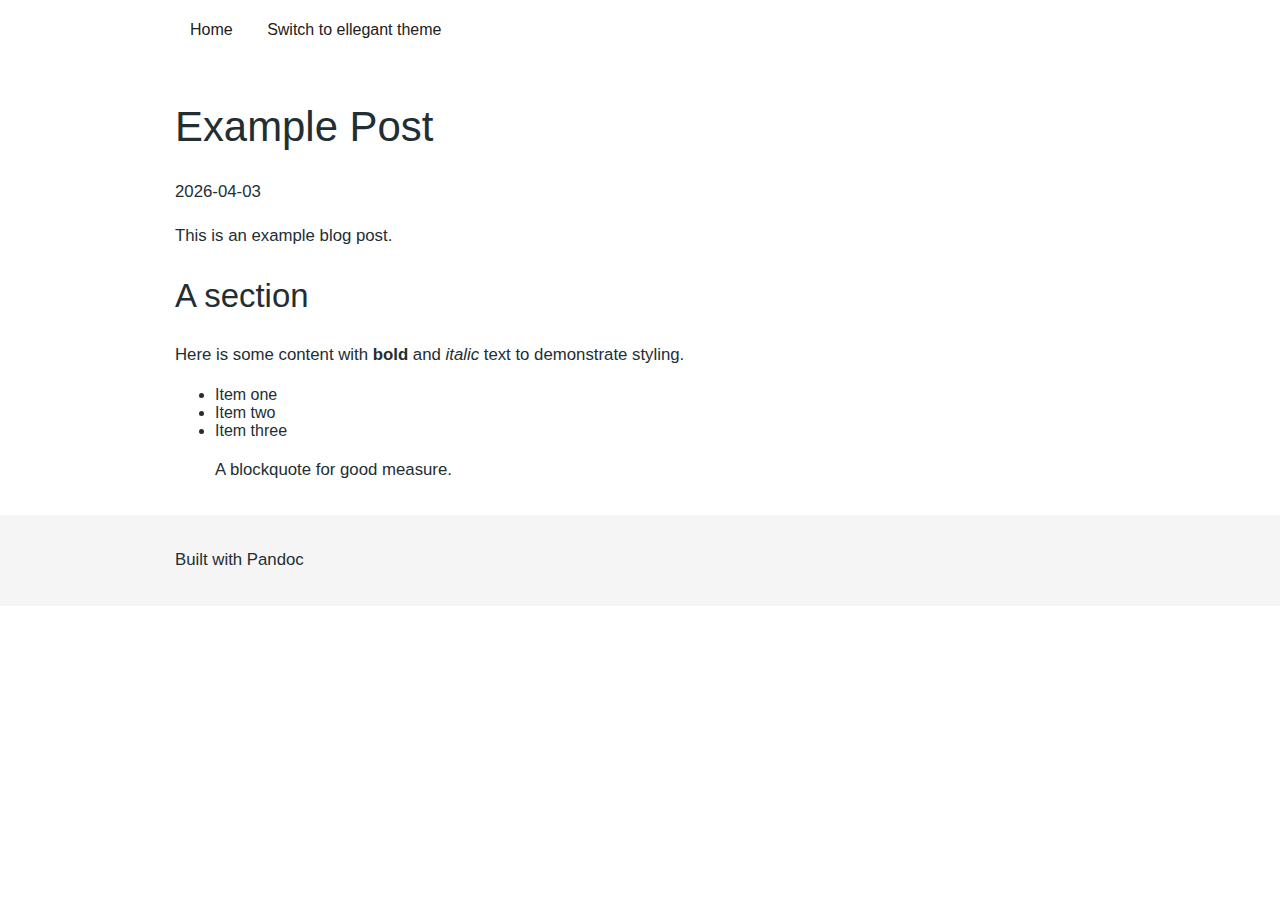
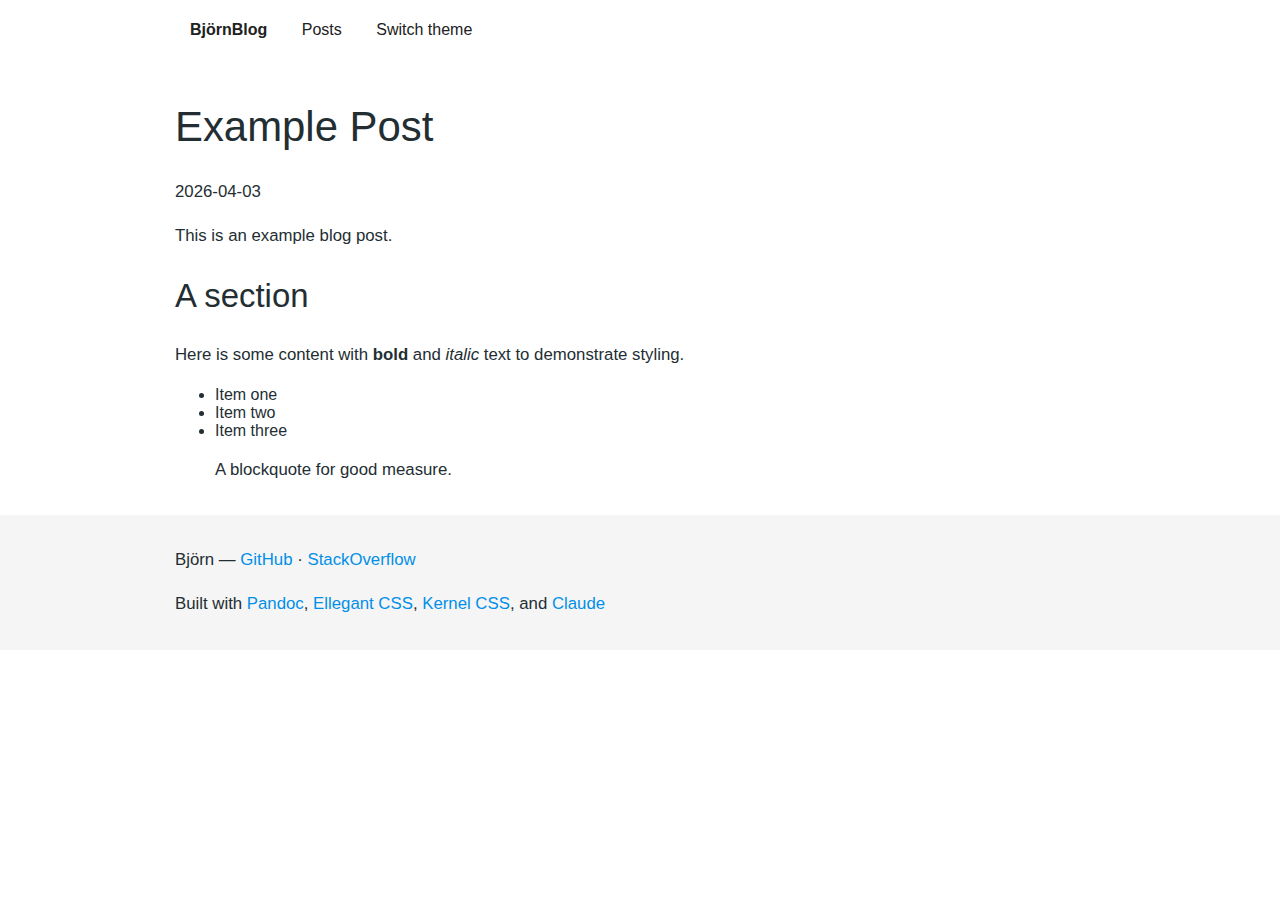
deploy: 3f79e11824e4568973eee068c2384f563539ca5d

Changed region(s): [[0.125, 0.5911, 0.4688, 0.6844], [0.1562, 0.0311, 0.375, 0.0622]]

diff --git a/index-kernel.html b/index-kernel.html
@@ -3,7 +3,7 @@
 <head>
   <meta charset="utf-8">
   <meta name="viewport" content="width=device-width, initial-scale=1.0">
-  <title>My Blog | Blog</title>
+  <title>BjörnBlog | BjörnBlog</title>
   
   <link rel="stylesheet" href="css/kernel.min.css">
 </head>
@@ -14,24 +14,27 @@
       <label for="ke-nav-toggle" class="ke-nav-toggle-hamburger"><span>&#9776;</span></label>
       <nav class="ke-nav">
         <ul>
-          <li><a href="index-kernel.html">Home</a></li>
-                    <li><a href="index.html">Switch to ellegant theme</a></li>
+          <li><a href="index-kernel.html"><strong>BjörnBlog</strong></a></li>
+          <li><a href="index-kernel.html">Posts</a></li>
+                    <li><a href="index.html">Switch theme</a></li>
                   </ul>
       </nav>
     </div>
   </header>
 
   <main class="ke-container ke-content">
-    <h1>My Blog</h1>
+    <h1>BjörnBlog</h1>
     
-<p>Welcome to my blog.</p>
+<p>I think about software and nerdstuff. Sometimes it’s worth writing
+about. Not sure if it’s worth reading though.</p>
 <h2>Posts</h2><ul><li><time>2026-04-03</time> &mdash; <a href="2026-04-03-example-post-kernel.html">Example Post</a></li></ul>
   </main>
 
   <footer>
     <div class="ke-bg-default ke-content">
       <div class="ke-container">
-        <p>Built with Pandoc</p>
+        <p>Björn &mdash; <a href="https://github.com/bjuergens">GitHub</a> · <a href="https://stackoverflow.com/users/5132456/wotanii">StackOverflow</a></p>
+        <p>Built with <a href="https://pandoc.org">Pandoc</a>, <a href="https://github.com/ellegantcss/ellegant">Ellegant CSS</a>, <a href="https://github.com/christian-dale/kernel.css">Kernel CSS</a>, and <a href="https://claude.ai">Claude</a></p>
       </div>
     </div>
   </footer>

diff --git a/2026-04-03-example-post-kernel.html b/2026-04-03-example-post-kernel.html
@@ -3,7 +3,7 @@
 <head>
   <meta charset="utf-8">
   <meta name="viewport" content="width=device-width, initial-scale=1.0">
-  <title>Example Post | Blog</title>
+  <title>Example Post | BjörnBlog</title>
   <meta name="date" content="2026-04-03">
   <link rel="stylesheet" href="css/kernel.min.css">
 </head>
@@ -14,8 +14,9 @@
       <label for="ke-nav-toggle" class="ke-nav-toggle-hamburger"><span>&#9776;</span></label>
       <nav class="ke-nav">
         <ul>
-          <li><a href="index-kernel.html">Home</a></li>
-                    <li><a href="2026-04-03-example-post.html">Switch to ellegant theme</a></li>
+          <li><a href="index-kernel.html"><strong>BjörnBlog</strong></a></li>
+          <li><a href="index-kernel.html">Posts</a></li>
+                    <li><a href="2026-04-03-example-post.html">Switch theme</a></li>
                   </ul>
       </nav>
     </div>
@@ -42,7 +43,8 @@ text to demonstrate styling.</p>
   <footer>
     <div class="ke-bg-default ke-content">
       <div class="ke-container">
-        <p>Built with Pandoc</p>
+        <p>Björn &mdash; <a href="https://github.com/bjuergens">GitHub</a> · <a href="https://stackoverflow.com/users/5132456/wotanii">StackOverflow</a></p>
+        <p>Built with <a href="https://pandoc.org">Pandoc</a>, <a href="https://github.com/ellegantcss/ellegant">Ellegant CSS</a>, <a href="https://github.com/christian-dale/kernel.css">Kernel CSS</a>, and <a href="https://claude.ai">Claude</a></p>
       </div>
     </div>
   </footer>

diff --git a/index.html b/index.html
@@ -3,7 +3,7 @@
 <head>
   <meta charset="utf-8">
   <meta name="viewport" content="width=device-width, initial-scale=1.0">
-  <title>My Blog | Blog</title>
+  <title>BjörnBlog | BjörnBlog</title>
   
   <link rel="stylesheet" href="css/ellegant.min.css">
   <style>
@@ -42,20 +42,23 @@
 <body>
   <header>
     <nav>
-      <a href="index.html">Home</a>
-            <a href="index-kernel.html">Switch to kernel theme</a>
+      <a href="index.html"><strong>BjörnBlog</strong></a>
+      <a href="index.html">Posts</a>
+            <a href="index-kernel.html">Switch theme</a>
           </nav>
   </header>
 
   <main>
-    <h1>My Blog</h1>
+    <h1>BjörnBlog</h1>
     
-<p>Welcome to my blog.</p>
+<p>I think about software and nerdstuff. Sometimes it’s worth writing
+about. Not sure if it’s worth reading though.</p>
 <h2>Posts</h2><ul><li><time>2026-04-03</time> &mdash; <a href="2026-04-03-example-post.html">Example Post</a></li></ul>
   </main>
 
   <footer>
-    <p>Built with Pandoc</p>
+    <p>Björn &mdash; <a href="https://github.com/bjuergens">GitHub</a> · <a href="https://stackoverflow.com/users/5132456/wotanii">StackOverflow</a></p>
+    <p>Built with <a href="https://pandoc.org">Pandoc</a>, <a href="https://github.com/ellegantcss/ellegant">Ellegant CSS</a>, <a href="https://github.com/christian-dale/kernel.css">Kernel CSS</a>, and <a href="https://claude.ai">Claude</a></p>
   </footer>
 </body>
 </html>

diff --git a/2026-04-03-example-post.html b/2026-04-03-example-post.html
@@ -3,7 +3,7 @@
 <head>
   <meta charset="utf-8">
   <meta name="viewport" content="width=device-width, initial-scale=1.0">
-  <title>Example Post | Blog</title>
+  <title>Example Post | BjörnBlog</title>
   <meta name="date" content="2026-04-03">
   <link rel="stylesheet" href="css/ellegant.min.css">
   <style>
@@ -42,8 +42,9 @@
 <body>
   <header>
     <nav>
-      <a href="index.html">Home</a>
-            <a href="2026-04-03-example-post-kernel.html">Switch to kernel theme</a>
+      <a href="index.html"><strong>BjörnBlog</strong></a>
+      <a href="index.html">Posts</a>
+            <a href="2026-04-03-example-post-kernel.html">Switch theme</a>
           </nav>
   </header>
 
@@ -66,7 +67,8 @@ text to demonstrate styling.</p>
   </main>
 
   <footer>
-    <p>Built with Pandoc</p>
+    <p>Björn &mdash; <a href="https://github.com/bjuergens">GitHub</a> · <a href="https://stackoverflow.com/users/5132456/wotanii">StackOverflow</a></p>
+    <p>Built with <a href="https://pandoc.org">Pandoc</a>, <a href="https://github.com/ellegantcss/ellegant">Ellegant CSS</a>, <a href="https://github.com/christian-dale/kernel.css">Kernel CSS</a>, and <a href="https://claude.ai">Claude</a></p>
   </footer>
 </body>
 </html>
